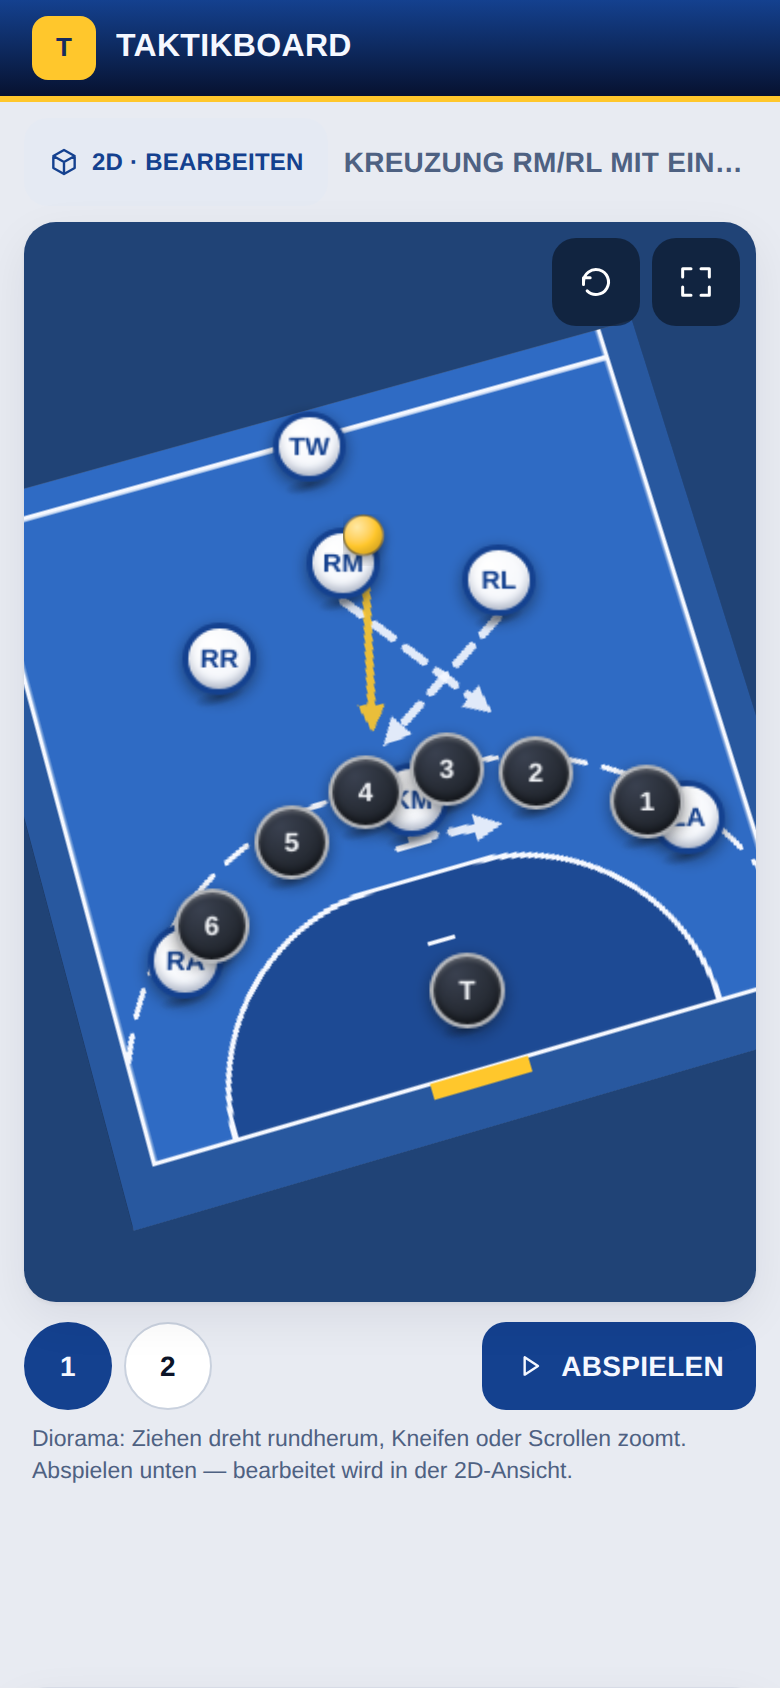
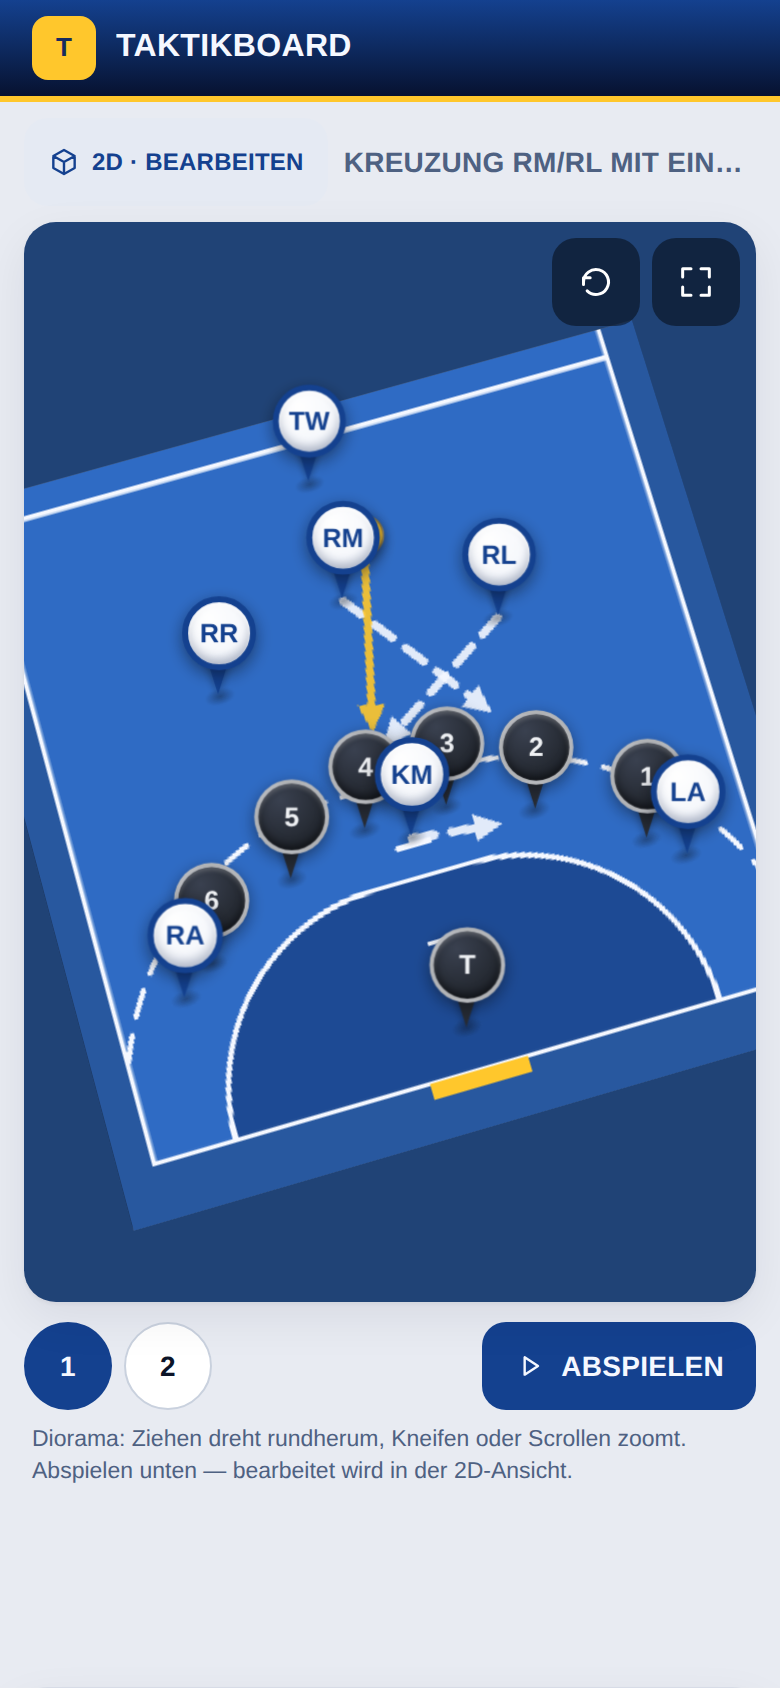
3D-Figuren als Map-Pins: Kopf mit Kürzel, Spitze zur Position, schwebend
Ball bleibt Kugel; Schattenpunkt unter der Pin-Spitze verankert die
Position auf dem Boden.

Claude-Session: https://claude.ai/code/session_01Abrr7SS19TmRUcqRKXX9sd

diff --git a/src/features/taktik/TaktikScreen.tsx b/src/features/taktik/TaktikScreen.tsx
@@ -140,6 +140,7 @@ function Standee({
   shadowScale = 0.92,
   lift = 0,
   tilt = 0,
+  height,
   children,
 }: {
   left: string
@@ -156,6 +157,8 @@ function Standee({
   lift?: number
   /** Rest-Neigung: 0 = exakt zur Kamera, >0 lässt etwas Draufsicht zu (wirkt plastischer). */
   tilt?: number
+  /** Höhe des Aufstellers (Standard: quadratisch = size). */
+  height?: number
   children: ReactNode
 }) {
   const transition = animate ? 'transform 320ms ease, left 320ms ease, top 320ms ease' : undefined
@@ -185,7 +188,7 @@ function Standee({
           left,
           top,
           width: size,
-          height: size,
+          height: height ?? size,
           transformOrigin: '50% 100%',
           transform: `translate(-50%, -100%) translateZ(${lift}px) rotateZ(${-rz}deg) rotateX(${-(rx - tilt)}deg)`,
           transition,
@@ -273,42 +276,86 @@ function Layer3D({
       {tokens.map((t) => {
         const isBall = t.kind === 'ball'
         const isOpp = t.kind === 'opp'
-        const size = isBall ? ballPx : chipPx
         const p = planePct(t.x, t.y, vbH)
+        if (isBall) {
+          const size = ballPx
+          return (
+            <Standee
+              key={t.id}
+              {...p}
+              size={size}
+              rx={rx}
+              rz={rz}
+              animate={animate}
+              lift={size * 0.22}
+              shadowScale={0.8}
+              chipRef={register(t.id, 'chip')}
+              shadowRef={register(t.id, 'shadow')}
+            >
+              <div
+                style={{
+                  width: size,
+                  height: size,
+                  borderRadius: '50%',
+                  backgroundColor: 'var(--club-acc)',
+                  backgroundImage:
+                    'radial-gradient(circle at 33% 28%, #ffe9a3 0%, var(--club-acc) 52%, color-mix(in srgb, var(--club-acc) 55%, #6b4d00) 100%)',
+                  border: `1px solid color-mix(in srgb, var(--club-acc-ink) 45%, transparent)`,
+                  boxShadow: '0 2px 6px rgba(6,9,14,0.45)',
+                }}
+              />
+            </Standee>
+          )
+        }
+        // Map-Pin: runder Kopf mit Kürzel, Spitze zeigt auf die Position
+        const size = chipPx
+        const tail = size * 0.34
+        const pinH = size + tail
+        const tailColor = isOpp ? '#272c35' : 'var(--club-700)'
         return (
           <Standee
             key={t.id}
             {...p}
             size={size}
+            height={pinH}
             rx={rx}
             rz={rz}
             animate={animate}
-            lift={isBall ? size * 0.22 : size * 0.16}
-            tilt={isBall ? 0 : 10}
+            lift={size * 0.12}
+            shadowScale={0.55}
             chipRef={register(t.id, 'chip')}
             shadowRef={register(t.id, 'shadow')}
           >
-            <div
-              style={{
-                width: size,
-                height: size,
-                borderRadius: '50%',
-                display: 'grid',
-                placeItems: 'center',
-                fontFamily: 'var(--font-display)',
-                fontWeight: 800,
-                fontSize: size * 0.36,
-                lineHeight: 1,
-                ...(isBall
-                  ? {
-                      // Kugel-Look: Glanzpunkt oben links, Abdunklung zum Rand
-                      backgroundColor: 'var(--club-acc)',
-                      backgroundImage:
-                        'radial-gradient(circle at 33% 28%, #ffe9a3 0%, var(--club-acc) 52%, color-mix(in srgb, var(--club-acc) 55%, #6b4d00) 100%)',
-                      border: `${Math.max(1, border * 0.4)}px solid color-mix(in srgb, var(--club-acc-ink) 45%, transparent)`,
-                      boxShadow: '0 2px 6px rgba(6,9,14,0.45)',
-                    }
-                  : isOpp
+            <div style={{ position: 'relative', width: size, height: pinH }}>
+              {/* Spitze */}
+              <div
+                style={{
+                  position: 'absolute',
+                  left: '50%',
+                  top: size * 0.82,
+                  transform: 'translateX(-50%)',
+                  width: 0,
+                  height: 0,
+                  borderLeft: `${size * 0.18}px solid transparent`,
+                  borderRight: `${size * 0.18}px solid transparent`,
+                  borderTop: `${tail + size * 0.18}px solid ${tailColor}`,
+                  filter: 'drop-shadow(0 1.5px 2px rgba(6,9,14,0.35))',
+                }}
+              />
+              {/* Kopf */}
+              <div
+                style={{
+                  position: 'absolute',
+                  inset: `0 0 auto 0`,
+                  height: size,
+                  borderRadius: '50%',
+                  display: 'grid',
+                  placeItems: 'center',
+                  fontFamily: 'var(--font-display)',
+                  fontWeight: 800,
+                  fontSize: size * 0.36,
+                  lineHeight: 1,
+                  ...(isOpp
                     ? {
                         backgroundColor: '#272c35',
                         backgroundImage:
@@ -327,9 +374,10 @@ function Layer3D({
                         boxShadow:
                           'inset 0 1.5px 2px rgba(255,255,255,0.9), inset 0 -2.5px 5px rgba(20,40,80,0.28), 0 2.5px 8px rgba(6,9,14,0.45)',
                       }),
-              }}
-            >
-              {!isBall && t.label}
+                }}
+              >
+                {t.label}
+              </div>
             </div>
           </Standee>
         )
